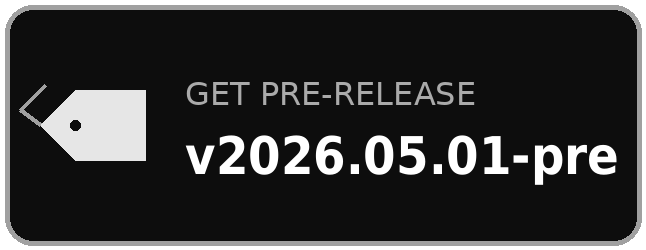
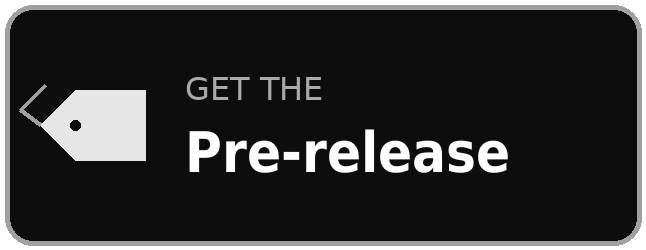
ci: remove version from pre-release badge

Changed region(s): [[0.2786, 0.504, 0.9598, 0.756], [0.2786, 0.308, 0.743, 0.42], [0.6192, 0.308, 0.6502, 0.336]]

diff --git a/README.md b/README.md
@@ -24,8 +24,9 @@ This customized version introduces usability enhancements and some UX improvemen
   <img alt="Downloader Code: 7259827" src=".github/assets/get_it_on_downloader.png" height="50">
 </a>
 <a href="https://github.com/LeanBitLab/LtvLauncher/releases">
-  <img alt="Pre-release: v2026.05.01-pre" src="https://raw.githubusercontent.com/LeanBitLab/LtvLauncher/master/.github/badges/prerelease.png?v=1" height="50">
+  <img alt="Pre-release: v2026.05.01-pre" src="https://raw.githubusercontent.com/LeanBitLab/LtvLauncher/master/.github/badges/prerelease.png?v=2" height="50">
 </a>
+
 
 
 